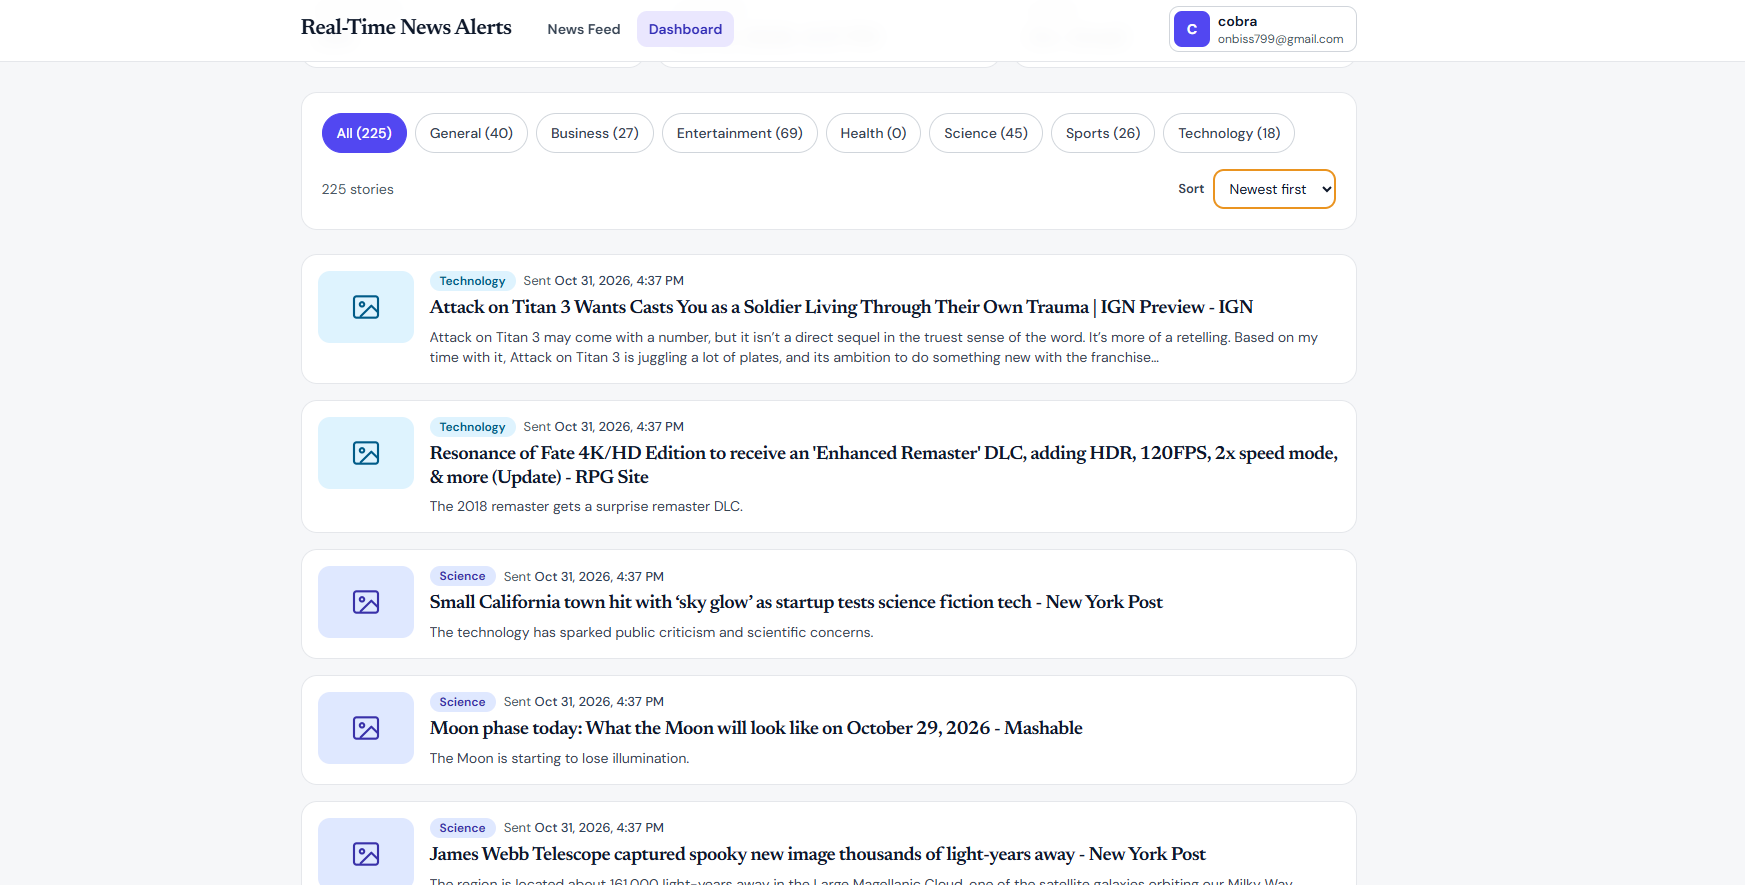
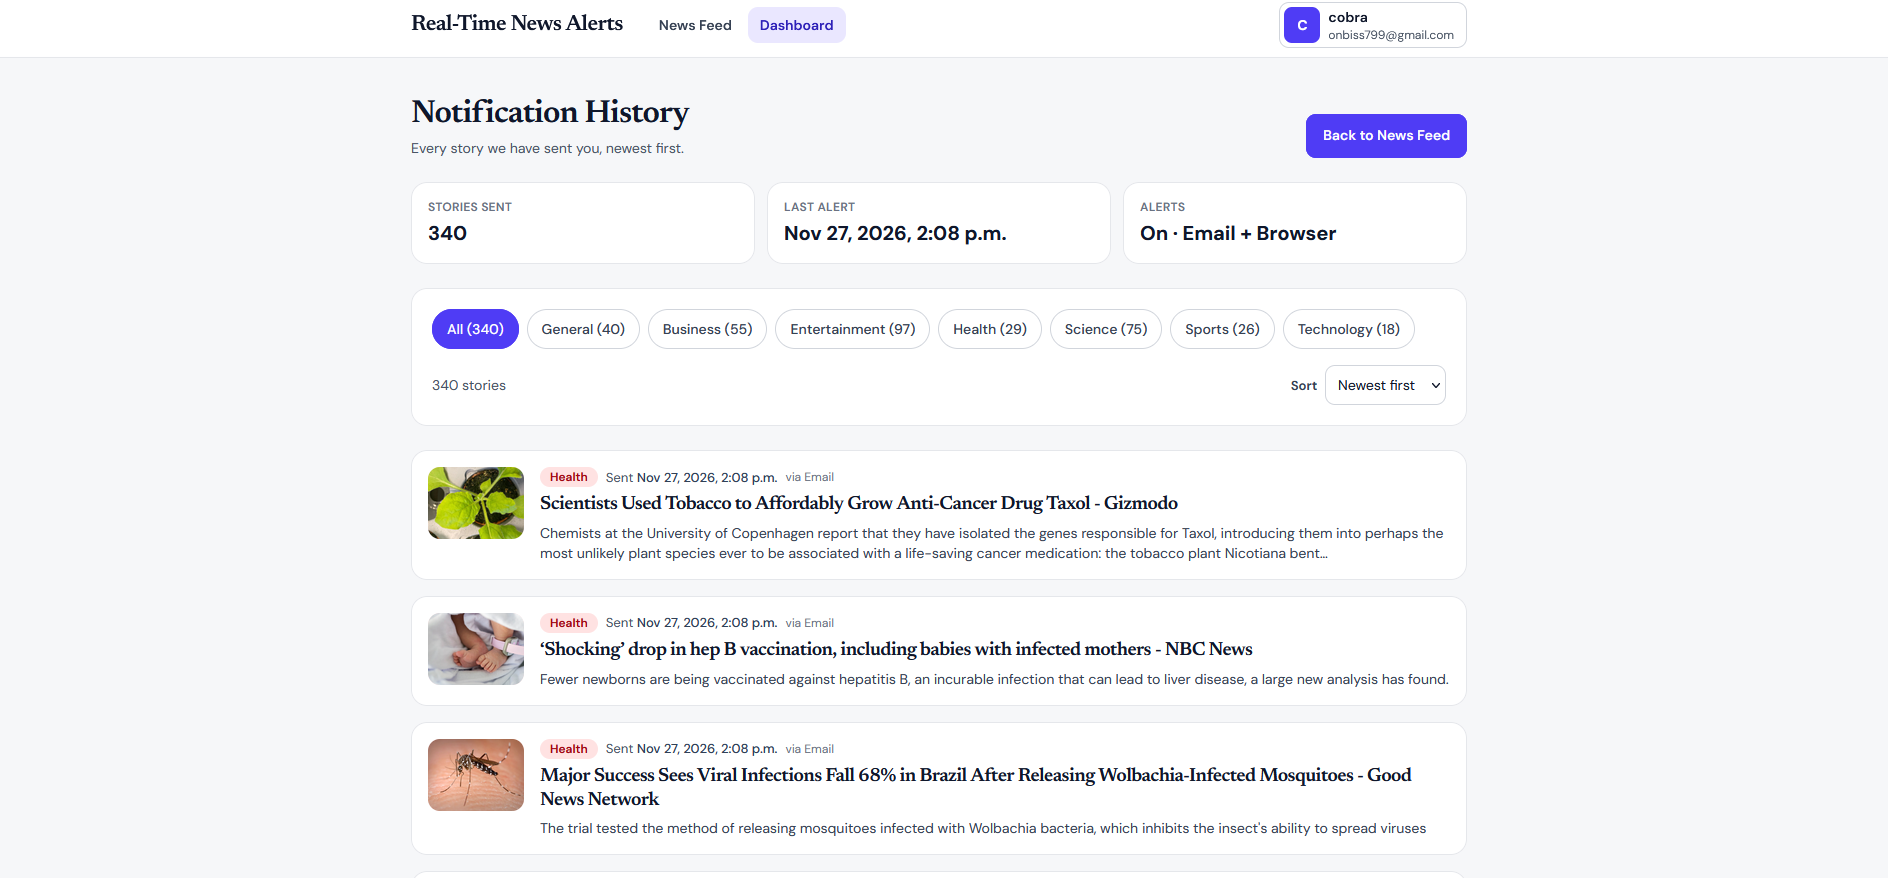
updated Readme

diff --git a/ReadMe.md b/ReadMe.md
@@ -31,6 +31,24 @@ Staying on top of the news usually means checking several sites. This project fl
 - Alert preferences (topics, frequency, channels) are stored on the server and shown again on every visit.
 - Every alert is recorded and can be reviewed on the dashboard.
 
+### Screenshots
+
+**Home page**
+
+![Home page](docs/screenshots/HomePage.png)
+
+**Login page**
+
+![Login page](docs/screenshots/Login_page.png)
+
+**News feed**
+
+![News feed](docs/screenshots/news-feed.png)
+
+**Dashboard (alert history)**
+
+![Dashboard alert history](docs/screenshots/dashboard-history.png)
+
 ---
 
 ## Features
